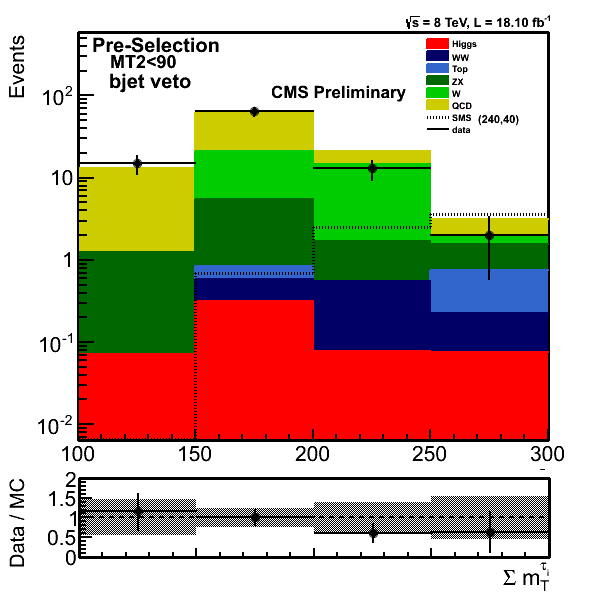
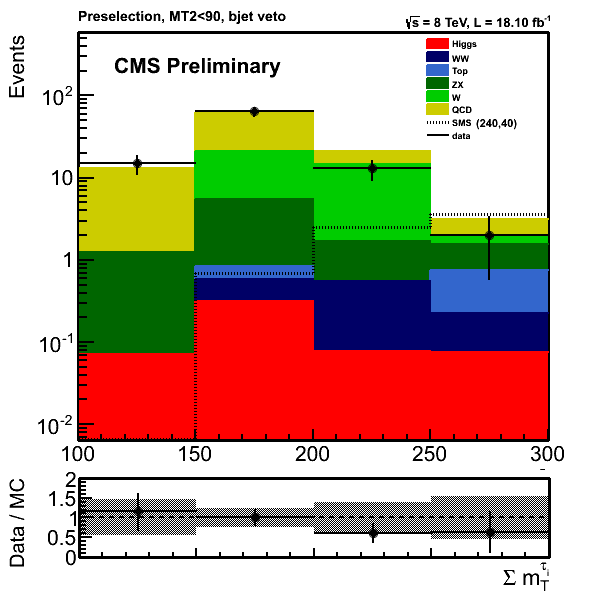
Some plots are changed.

Changed region(s): [[0.1208, 0.0, 0.6946, 0.1794], [0.6946, 0.0897, 0.8758, 0.2392]]

diff --git a/notes/AN-14-275/trunk/QCDbginTauTau/QCDestimation_plot.C b/notes/AN-14-275/trunk/QCDbginTauTau/QCDestimation_plot.C
@@ -1,7 +1,7 @@
 {
 //=========Macro generated from canvas: MT2_ratioc_ratio/
-//=========  (Sat Oct 10 17:44:44 2015) by ROOT version5.34/03
-   TCanvas *MT2_ratioc_ratio = new TCanvas("MT2_ratioc_ratio", "",67,80,600,660);
+//=========  (Sun Oct 11 13:54:24 2015) by ROOT version5.34/03
+   TCanvas *MT2_ratioc_ratio = new TCanvas("MT2_ratioc_ratio", "",159,97,600,660);
    gStyle->SetOptFit(1);
    MT2_ratioc_ratio->Range(0,0,1,1);
    MT2_ratioc_ratio->SetFillColor(0);
@@ -75,10 +75,10 @@
    MT2_Higgs->SetBinContent(2,0.318799);
    MT2_Higgs->SetBinContent(3,0.07742545);
    MT2_Higgs->SetBinContent(4,0.07488839);
-   MT2_Higgs->SetBinError(1,0.03511451);
-   MT2_Higgs->SetBinError(2,0.08018868);
-   MT2_Higgs->SetBinError(3,0.03262404);
-   MT2_Higgs->SetBinError(4,0.02342941);
+   MT2_Higgs->SetBinError(1,0.04990565);
+   MT2_Higgs->SetBinError(2,0.1784332);
+   MT2_Higgs->SetBinError(3,0.05062611);
+   MT2_Higgs->SetBinError(4,0.04417018);
    MT2_Higgs->SetEntries(86);
    MT2_Higgs->SetStats(0);
    MT2_Higgs->SetFillColor(2);
@@ -108,9 +108,9 @@
    MT2_WW->SetBinContent(2,0.270886);
    MT2_WW->SetBinContent(3,0.4698851);
    MT2_WW->SetBinContent(4,0.1483787);
-   MT2_WW->SetBinError(2,0.1038165);
-   MT2_WW->SetBinError(3,0.1340059);
-   MT2_WW->SetBinError(4,0.0700099);
+   MT2_WW->SetBinError(2,0.170654);
+   MT2_WW->SetBinError(3,0.270473);
+   MT2_WW->SetBinError(4,0.102007);
    MT2_WW->SetEntries(36);
    MT2_WW->SetStats(0);
 
@@ -147,9 +147,9 @@
    MT2_Top->SetBinContent(2,0.2561433);
    MT2_Top->SetBinContent(3,0.001803654);
    MT2_Top->SetBinContent(4,0.5268298);
-   MT2_Top->SetBinError(2,0.2561433);
-   MT2_Top->SetBinError(3,0.001803654);
-   MT2_Top->SetBinError(4,0.5268298);
+   MT2_Top->SetBinError(2,0.2863769);
+   MT2_Top->SetBinError(3,0.002016546);
+   MT2_Top->SetBinError(4,0.5890136);
    MT2_Top->SetEntries(55);
    MT2_Top->SetStats(0);
 
@@ -186,10 +186,10 @@
    MT2_ZX->SetBinContent(2,4.615497);
    MT2_ZX->SetBinContent(3,1.13796);
    MT2_ZX->SetBinContent(4,0.8086002);
-   MT2_ZX->SetBinError(1,0.6784595);
-   MT2_ZX->SetBinError(2,1.398525);
-   MT2_ZX->SetBinError(3,0.3865141);
-   MT2_ZX->SetBinError(4,0.5637694);
+   MT2_ZX->SetBinError(1,0.7376637);
+   MT2_ZX->SetBinError(2,1.813091);
+   MT2_ZX->SetBinError(3,0.4799247);
+   MT2_ZX->SetBinError(4,0.5989162);
    MT2_ZX->SetBinError(5,0.01049275);
    MT2_ZX->SetEntries(207);
    MT2_ZX->SetStats(0);
@@ -226,9 +226,9 @@
    MT2_W->SetBinContent(2,15.56548);
    MT2_W->SetBinContent(3,13.13984);
    MT2_W->SetBinContent(4,0.4286065);
-   MT2_W->SetBinError(2,4.397508);
-   MT2_W->SetBinError(3,4.379561);
-   MT2_W->SetBinError(4,0.4027816);
+   MT2_W->SetBinError(2,5.872039);
+   MT2_W->SetBinError(3,5.474625);
+   MT2_W->SetBinError(4,0.4167907);
    MT2_W->SetEntries(64);
    MT2_W->SetStats(0);
 
@@ -365,7 +365,7 @@
    MT2_susy->GetZaxis()->SetTitleSize(0.035);
    MT2_susy->GetZaxis()->SetTitleFont(42);
    MT2_susy->Draw("samehist");
-   TLatex *   tex = new TLatex(0.4395973,0.9556372,"0 jets");
+   TLatex *   tex = new TLatex(0.03020134,0.531973,"0 jets");
 tex->SetNDC();
    tex->SetTextSize(0.03);
    tex->SetLineWidth(2);
@@ -402,7 +402,7 @@ tex->SetNDC();
    MT2__1__1->GetZaxis()->SetTitleFont(42);
    MT2__1__1->Draw("sameaxis");
    
-   TLegend *leg = new TLegend(0.7097315,0.7138603,0.909396,0.920147,NULL,"brNDC");
+   TLegend *leg = new TLegend(0.7097315,0.7005514,0.909396,0.920147,NULL,"brNDC");
    leg->SetBorderSize(0);
    leg->SetTextFont(62);
    leg->SetLineColor(1);
@@ -501,7 +501,7 @@ tex->SetNDC();
    leg->Draw();
   
 // ------------>Primitives in pad: MT2_ratio_plotpad_1
-   MT2_ratio_plotpad_1 = new TPad("MT2_ratio_plotpad_1", "newpad",0.4395973,0.9488889,0.5050336,0.9866667);
+   MT2_ratio_plotpad_1 = new TPad("MT2_ratio_plotpad_1", "newpad",0.02516779,0.5111111,0.09731544,0.5688889);
    MT2_ratio_plotpad_1->Draw();
    MT2_ratio_plotpad_1->cd();
    MT2_ratio_plotpad_1->Range(0,0,1,1);
@@ -517,24 +517,37 @@ tex->SetNDC();
    MT2_ratio_plotpad_1->SetFrameBorderSize(0);
    MT2_ratio_plotpad_1->Modified();
    MT2_ratio_plotpad->cd();
-      tex = new TLatex(181.9661,92.09542,"CMS Preliminary");
-   tex->SetTextSize(0.03992648);
+      tex = new TLatex(115.5688,186.9309,"CMS Preliminary");
    tex->SetLineWidth(2);
    tex->Draw();
-      tex = new TLatex(270.0702,46.731,"(240,40)");
+      tex = new TLatex(121.9532,89.3748,"Preselection, MT2<90, bjetveto");
+   tex->SetTextSize(0.03105393);
+   tex->SetLineWidth(2);
+   tex->Draw();
+      tex = new TLatex(269.2189,41.53025,"(240,40)");
    tex->SetTextSize(0.02661765);
    tex->SetLineWidth(2);
    tex->Draw();
-      tex = new TLatex(105.7795,343.1304,"Pre-Selection");
-   tex->SetTextSize(0.04636718);
-   tex->SetLineWidth(2);
-   tex->Draw();
-      tex = new TLatex(113.4407,219.1347,"MT2<90");
-   tex->SetTextSize(0.04215198);
-   tex->SetLineWidth(2);
-   tex->Draw();
-      tex = new TLatex(113.0151,125.1054,"bjet veto");
-   tex->SetTextSize(0.04636718);
+  
+// ------------>Primitives in pad: MT2_ratio_plotpad_2
+   MT2_ratio_plotpad_2 = new TPad("MT2_ratio_plotpad_2", "newpad",0.2097315,0.7827004,0.5687919,0.814346);
+   MT2_ratio_plotpad_2->Draw();
+   MT2_ratio_plotpad_2->cd();
+   MT2_ratio_plotpad_2->Range(0,0,1,1);
+   MT2_ratio_plotpad_2->SetFillColor(0);
+   MT2_ratio_plotpad_2->SetBorderMode(0);
+   MT2_ratio_plotpad_2->SetBorderSize(2);
+   MT2_ratio_plotpad_2->SetLeftMargin(0.18);
+   MT2_ratio_plotpad_2->SetRightMargin(0.08);
+   MT2_ratio_plotpad_2->SetTopMargin(0.07);
+   MT2_ratio_plotpad_2->SetBottomMargin(0.17);
+   MT2_ratio_plotpad_2->SetFrameLineWidth(3);
+   MT2_ratio_plotpad_2->SetFrameBorderMode(0);
+   MT2_ratio_plotpad_2->SetFrameBorderSize(0);
+   MT2_ratio_plotpad_2->Modified();
+   MT2_ratio_plotpad->cd();
+      tex = new TLatex(99.82078,818.0568,"Preselection, MT2<90, bjet veto");
+   tex->SetTextSize(0.03372158);
    tex->SetLineWidth(2);
    tex->Draw();
    MT2_ratio_plotpad->Modified();

diff --git a/notes/AN-14-275/trunk/QCDbginTauTau/QCDWestimation_plot.C b/notes/AN-14-275/trunk/QCDbginTauTau/QCDWestimation_plot.C
@@ -1,7 +1,7 @@
 {
 //=========Macro generated from canvas: MT2_ratioc_ratio/
-//=========  (Sat Oct 10 16:58:00 2015) by ROOT version5.34/03
-   TCanvas *MT2_ratioc_ratio = new TCanvas("MT2_ratioc_ratio", "",263,52,600,660);
+//=========  (Sun Oct 11 13:50:19 2015) by ROOT version5.34/03
+   TCanvas *MT2_ratioc_ratio = new TCanvas("MT2_ratioc_ratio", "",690,63,600,660);
    gStyle->SetOptFit(1);
    MT2_ratioc_ratio->Range(0,0,1,1);
    MT2_ratioc_ratio->SetFillColor(0);
@@ -74,9 +74,9 @@
    MT2_Higgs->SetBinContent(1,0.5091306);
    MT2_Higgs->SetBinContent(2,0.1085229);
    MT2_Higgs->SetBinContent(3,0.1651059);
-   MT2_Higgs->SetBinError(1,0.09723714);
-   MT2_Higgs->SetBinError(2,0.02814464);
-   MT2_Higgs->SetBinError(3,0.04755536);
+   MT2_Higgs->SetBinError(1,0.2725042);
+   MT2_Higgs->SetBinError(2,0.06112631);
+   MT2_Higgs->SetBinError(3,0.09527067);
    MT2_Higgs->SetBinError(4,0.03100911);
    MT2_Higgs->SetEntries(121);
    MT2_Higgs->SetStats(0);
@@ -107,9 +107,9 @@
    MT2_WW->SetBinContent(1,0.9393951);
    MT2_WW->SetBinContent(2,0.1026626);
    MT2_WW->SetBinContent(3,0.02051527);
-   MT2_WW->SetBinError(1,0.1904175);
-   MT2_WW->SetBinError(2,0.05960316);
-   MT2_WW->SetBinError(3,0.02051527);
+   MT2_WW->SetBinError(1,0.506828);
+   MT2_WW->SetBinError(2,0.07866027);
+   MT2_WW->SetBinError(3,0.02293677);
    MT2_WW->SetEntries(41);
    MT2_WW->SetStats(0);
 
@@ -145,8 +145,8 @@
    TH1D *MT2_Top = new TH1D("MT2_Top","",3, xAxis3);
    MT2_Top->SetBinContent(1,4.268732);
    MT2_Top->SetBinContent(2,0.9925378);
-   MT2_Top->SetBinError(1,1.405493);
-   MT2_Top->SetBinError(2,0.6994522);
+   MT2_Top->SetBinError(1,2.555568);
+   MT2_Top->SetBinError(2,0.8576224);
    MT2_Top->SetEntries(69);
    MT2_Top->SetStats(0);
 
@@ -182,9 +182,9 @@
    MT2_ZX->SetBinContent(1,7.424741);
    MT2_ZX->SetBinContent(2,1.201838);
    MT2_ZX->SetBinContent(3,0.5629472);
-   MT2_ZX->SetBinError(1,1.641931);
-   MT2_ZX->SetBinError(2,0.6234778);
-   MT2_ZX->SetBinError(3,0.08812875);
+   MT2_ZX->SetBinError(1,2.478177);
+   MT2_ZX->SetBinError(2,0.6920986);
+   MT2_ZX->SetBinError(3,0.1660528);
    MT2_ZX->SetBinError(4,0.05429447);
    MT2_ZX->SetEntries(320);
    MT2_ZX->SetStats(0);
@@ -356,7 +356,7 @@
    MT2_susy->GetZaxis()->SetTitleSize(0.035);
    MT2_susy->GetZaxis()->SetTitleFont(42);
    MT2_susy->Draw("samehist");
-   TLatex *   tex = new TLatex(0.01677852,0.6473161,"0 jets");
+   TLatex *   tex = new TLatex(0.02516779,0.5829901,"0 jets");
 tex->SetNDC();
    tex->SetTextSize(0.03);
    tex->SetLineWidth(2);
@@ -393,7 +393,7 @@ tex->SetNDC();
    MT2__1__1->GetZaxis()->SetTitleFont(42);
    MT2__1__1->Draw("sameaxis");
    
-   TLegend *leg = new TLegend(0.7097315,0.6916789,0.909396,0.920147,NULL,"brNDC");
+   TLegend *leg = new TLegend(0.7097315,0.6118259,0.909396,0.920147,NULL,"brNDC");
    leg->SetBorderSize(0);
    leg->SetTextFont(62);
    leg->SetLineColor(1);
@@ -492,7 +492,7 @@ tex->SetNDC();
    leg->Draw();
   
 // ------------>Primitives in pad: MT2_ratio_plotpad_1
-   MT2_ratio_plotpad_1 = new TPad("MT2_ratio_plotpad_1", "newpad",0.008389262,0.6311111,0.08389262,0.6733333);
+   MT2_ratio_plotpad_1 = new TPad("MT2_ratio_plotpad_1", "newpad",0.01845638,0.5688889,0.08221477,0.6111111);
    MT2_ratio_plotpad_1->Draw();
    MT2_ratio_plotpad_1->cd();
    MT2_ratio_plotpad_1->Range(0,0,1,1);
@@ -508,38 +508,15 @@ tex->SetNDC();
    MT2_ratio_plotpad_1->SetFrameBorderSize(0);
    MT2_ratio_plotpad_1->Modified();
    MT2_ratio_plotpad->cd();
-      tex = new TLatex(67.3855,18.4122,"CMS Preliminary");
-   tex->SetTextSize(0.04436275);
+      tex = new TLatex(41.20966,1425.438,"Preselection");
+   tex->SetTextSize(0.0354902);
    tex->SetLineWidth(2);
    tex->Draw();
-      tex = new TLatex(42.32692,495.712,"Pre-Selection");
-   tex->SetTextSize(0.03992648);
+      tex = new TLatex(52.38228,301.5517,"CMS Preliminary");
    tex->SetLineWidth(2);
    tex->Draw();
-      tex = new TLatex(70.41807,1657.087,"(240,20)");
-   tex->SetTextSize(0.02107599);
-   tex->SetLineWidth(2);
-   tex->Draw();
-  
-// ------------>Primitives in pad: MT2_ratio_plotpad_2
-   MT2_ratio_plotpad_2 = new TPad("MT2_ratio_plotpad_2", "newpad",0.4379195,0.9599156,0.5201342,0.9831224);
-   MT2_ratio_plotpad_2->Draw();
-   MT2_ratio_plotpad_2->cd();
-   MT2_ratio_plotpad_2->Range(0,0,1,1);
-   MT2_ratio_plotpad_2->SetFillColor(0);
-   MT2_ratio_plotpad_2->SetBorderMode(0);
-   MT2_ratio_plotpad_2->SetBorderSize(2);
-   MT2_ratio_plotpad_2->SetLeftMargin(0.18);
-   MT2_ratio_plotpad_2->SetRightMargin(0.08);
-   MT2_ratio_plotpad_2->SetTopMargin(0.07);
-   MT2_ratio_plotpad_2->SetBottomMargin(0.17);
-   MT2_ratio_plotpad_2->SetFrameLineWidth(3);
-   MT2_ratio_plotpad_2->SetFrameBorderMode(0);
-   MT2_ratio_plotpad_2->SetFrameBorderSize(0);
-   MT2_ratio_plotpad_2->Modified();
-   MT2_ratio_plotpad->cd();
-      tex = new TLatex(103.2975,58.98673,"(240,40)");
-   tex->SetTextSize(0.02950639);
+      tex = new TLatex(105.0532,22.88483,"(240,40)");
+   tex->SetTextSize(0.03105393);
    tex->SetLineWidth(2);
    tex->Draw();
    MT2_ratio_plotpad->Modified();
